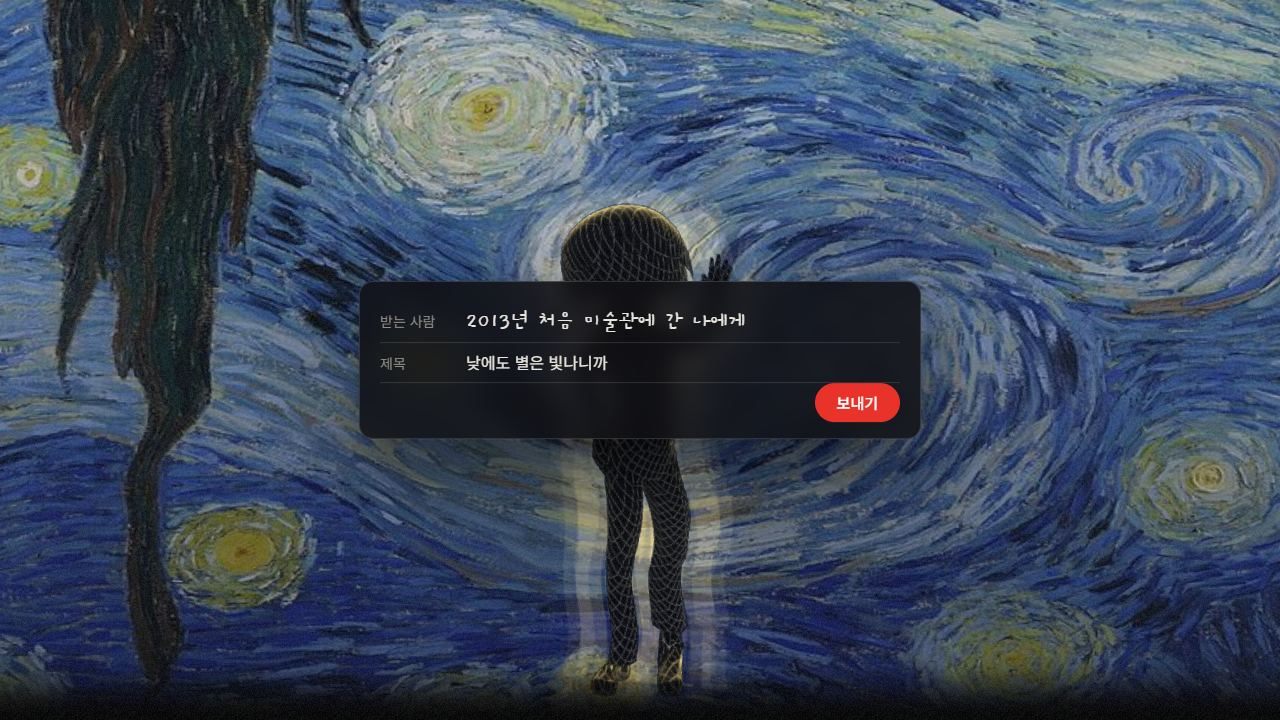
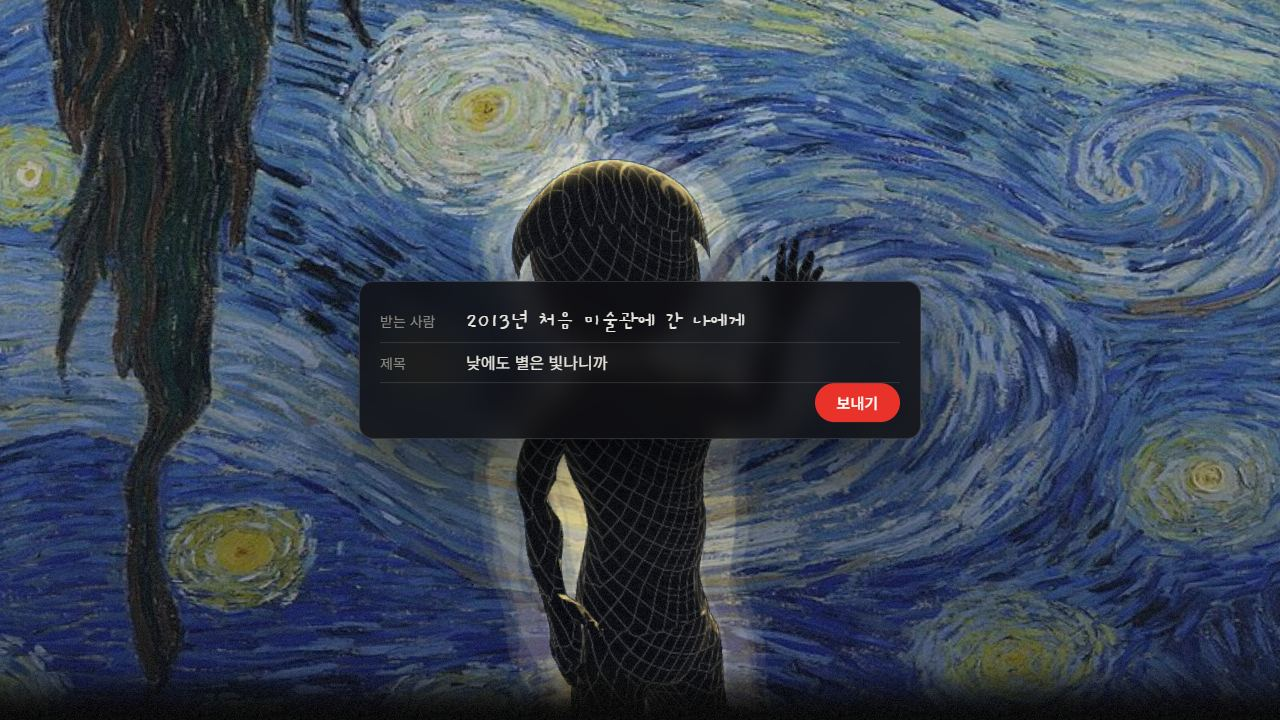
Water child: own head hidden (its tied-back hair read as a ponytail), round head with a bowl cut, upper body only; an ending after 보내기 in the picture version too
Claude-Session: https://claude.ai/code/session_019pff81V3KnfQ8avbBjw924

Changed region(s): [[0.375, 0.6111, 0.5938, 0.9778], [0.375, 0.1833, 0.6875, 0.3972]]

diff --git a/docs/index.html b/docs/index.html
@@ -131,6 +131,8 @@ noscript .text { position: fixed; inset: 0; overflow: auto; background: var(--vo
 #flat .count { position: absolute; left: 0; right: 0; bottom: calc(14px + env(safe-area-inset-bottom, 0px)); margin: 0; text-align: center; font: 400 12px/1 var(--f-ko); letter-spacing: .08em; color: var(--ash); }
 .nogl .read { z-index: 6; }
 .nogl canvas, .nogl .bar { display: none; }
+.fin .sent { margin: 0 0 18px; font: 400 13px/1.6 var(--f-ko); letter-spacing: .08em; color: var(--ash); }
+.nogl .card, .nogl .fin { z-index: 7; }
 </style>
 <script async src="https://cdn.jsdelivr.net/npm/es-module-shims@1.8.2/dist/es-module-shims.js"></script><!-- import maps for older Safari / in-app browsers -->
 <script>setTimeout(function () { var l = document.getElementById("loader"); if (document.documentElement.classList.contains("nogl")) return; if (l && l.isConnected && getComputedStyle(l).getPropertyValue("--p").trim() !== "1") { var p = document.createElement("p"); p.style.cssText = "position:fixed;left:0;right:0;bottom:12vh;text-align:center;font:300 15px/1.7 sans-serif;color:#bbb;padding:0 16px"; p.textContent = "이 브라우저에서 3D 장면을 불러오지 못했어요. 크롬에서 열거나, 휴대폰 카메라로 PDF의 QR을 찍어 주세요."; l.appendChild(p); } }, 20000);</script>
@@ -162,6 +164,7 @@ noscript .text { position: fixed; inset: 0; overflow: auto; background: var(--vo
 
 <section id="fin" class="fin" hidden>
   <div>
+    <p class="sent">편지를 보냈어요 · 보낸 편지함 1</p>
     <h1>낮에도 별은 빛나니까</h1>
     <div class="by">허대훈 · 신세계 지식향연 2026 「예술을 바꾼 혁명, 인상주의」</div>
     <div class="credit">빈센트 반 고흐, 「별이 빛나는 밤」, 1889, 뉴욕 현대미술관(MoMA) 소장. 이미지: Google Art Project, Wikimedia Commons(퍼블릭 도메인).</div>
@@ -225,6 +228,13 @@ var BEATS = [
 ];
 
 // src/js/content/letter.js
+var ENDING = {
+  to: "2013년 처음 미술관에 간 나에게",
+  subject: "낮에도 별은 빛나니까",
+  note: "",
+  send: "보내기",
+  footer: ""
+};
 var LETTER = {
   title: "",
   paragraphs: [
@@ -262,13 +272,27 @@ function start() {
   const img = flat.querySelector("img"), count = flat.querySelector(".count");
   const read = document.getElementById("read"), body = document.getElementById("readBody");
   const title = document.getElementById("readTitle"), sign = document.getElementById("readSign");
+  const card = document.getElementById("card"), fin = document.getElementById("fin"), send = document.getElementById("send");
   const pic = (n) => `assets/fallback/b${n}.jpg`;
   let k = 0;
   const reading = () => !!BEATS[k].read;
   function show(n) {
     k = Math.max(0, Math.min(BEATS.length - 1, n));
-    img.src = pic(k);
+    const end = !!BEATS[k].end;
+    img.src = pic(end ? k - 1 : k);
     img.alt = BEATS[k].label;
+    fin.hidden = true;
+    card.hidden = !end;
+    if (end) {
+      document.getElementById("to").textContent = ENDING.to;
+      document.getElementById("subj").textContent = ENDING.subject;
+      const note = document.getElementById("cardNote");
+      note.textContent = ENDING.note;
+      note.hidden = !ENDING.note;
+      document.getElementById("cardFooter").textContent = ENDING.footer;
+      send.textContent = ENDING.send;
+      send.disabled = false;
+    }
     count.textContent = `${String(k + 1).padStart(2, "0")} / ${String(BEATS.length).padStart(2, "0")} · ${BEATS[k].label}`;
     if (k + 1 < BEATS.length) new Image().src = pic(k + 1);
     flat.classList.toggle("started", k > 0);
@@ -289,6 +313,13 @@ function start() {
   flat.addEventListener("click", () => {
     if (!reading()) show(k + 1);
   });
+  send.addEventListener("click", () => {
+    card.hidden = true;
+    fin.hidden = false;
+    document.getElementById("again").focus({ preventScroll: true });
+  });
+  document.getElementById("again").addEventListener("click", () => show(0));
+  document.getElementById("replay").addEventListener("click", () => show(BEATS.findIndex((b) => b.world === "lake")));
   document.getElementById("readDone").addEventListener("click", (e) => {
     e.stopPropagation();
     show(k + 1);
@@ -1120,9 +1151,9 @@ var LOOK = {
     hair: false,
     // 머리카락이 없는 마네킹 모델이면 true: 머리뼈에 머리카락을 붙임
     kidHair: true,
-    // 물속 아이에게만 바가지 머리(이마까지 덮는 둥근 머리)를 씌움
-    kidHairFit: { size: 0.64, lift: 0.45 },
-    // 바가지 머리 크기·높이 (머리뼈~정수리 거리에 대한 비율, ?hairdebug 로 빨갛게 확인)
+    // 물속 아이: 모델의 머리(묶은 머리)를 숨기고 둥근 머리 + 바가지 머리를 씌움
+    kidHairFit: { size: 0.5, lift: 0.5 },
+    // 둥근 머리 반지름·높이 (머리뼈~정수리 거리에 대한 비율). 바가지 머리는 그보다 1.1배
     childArmScale: 0.78,
     // 아이 팔 길이·굵기 (1 = 모델 그대로, 작을수록 짧고 가늘게)
     hairFit: { size: 0.66, lift: 0.62 },
@@ -1134,7 +1165,7 @@ var LOOK = {
     childHeadScale: 1.4,
     // 아이 머리를 몸에 비해 크게
     // 물속 인물 화면: 머리에서 drop(m) 아래를 가운데로, 위아래 half(m) 만큼, tilt(라디안) 위에서 내려다봄
-    waterFrame: { adult: { drop: 0.13, half: 0.36, tilt: 0.35 }, child: { drop: 0.12, half: 0.8, tilt: 0.2 } }
+    waterFrame: { adult: { drop: 0.13, half: 0.36, tilt: 0.35 }, child: { drop: 0.02, half: 0.4, tilt: 0.2 } }
   },
   // 물에 비친 아이
   childGlow: 0.85,
@@ -4919,7 +4950,8 @@ function makePerson({ height, mat, headScale = 1, kid = false }) {
   body.position.y = -box2.min.y * s;
   const bones = findBones(body);
   root.updateMatrixWorld(true);
-  if ((LOOK.people.hair || kid && LOOK.people.kidHair) && bones.head) addHair(bones.head, mat, kid || headScale !== 1, height, kid ? LOOK.people.kidHairFit : LOOK.people.hairFit);
+  if (kid && LOOK.people.kidHair && bones.head) addKidHead(body, bones.head, mat, height);
+  else if (LOOK.people.hair && bones.head) addHair(bones.head, mat, headScale !== 1, height);
   if (headScale !== 1 && bones.head) bones.head.scale.setScalar(headScale);
   const arm = kid ? LOOK.people.childArmScale ?? 1 : 1;
   if (arm !== 1) {
@@ -4929,6 +4961,25 @@ function makePerson({ height, mat, headScale = 1, kid = false }) {
   const y = (b) => b ? b.getWorldPosition(new THREE8.Vector3()).y : 0;
   const tpose = Math.abs(y(bones.handL) - y(bones.upperArmL)) < 0.1 * (height / 1.7);
   return { root, body, bones, base: snapshot(bones), clips: src.animations, tpose, idlePose };
+}
+function addKidHead(body, head, mat, crownY) {
+  body.traverse((o) => {
+    if (o.isMesh && /head/i.test(o.name)) o.visible = false;
+  });
+  head.updateMatrixWorld(true);
+  const h = crownY - head.getWorldPosition(new THREE8.Vector3()).y;
+  const ws = head.getWorldScale(new THREE8.Vector3()).x;
+  const { size: size2, lift } = LOOK.people.kidHairFit;
+  const r = h * size2 / ws;
+  const g2 = new THREE8.Group();
+  g2.position.set(0, h * lift / ws, 0);
+  head.add(g2);
+  const skull = new THREE8.Mesh(new THREE8.SphereGeometry(r, 28, 20), mat);
+  skull.scale.set(0.92, 1, 0.98);
+  g2.add(skull);
+  const bowl = new THREE8.Mesh(new THREE8.SphereGeometry(r * 1.1, 32, 18, 0, Math.PI * 2, 0, Math.PI * 0.56), mat);
+  bowl.position.set(0, r * 0.08, -r * 0.03);
+  g2.add(bowl);
 }
 function addHair(head, mat, child2, crownY, fit = LOOK.people.hairFit) {
   head.updateMatrixWorld(true);

diff --git a/src/js/fallback.js b/src/js/fallback.js
@@ -2,7 +2,7 @@
 // Tap or → goes on, ← goes back; the lakeside beat still opens the whole letter to scroll through.
 // Pictures: assets/fallback/b<beat>.jpg (shot with ?shot, the lake one with ?shot&noread). ?flat forces this mode.
 import { BEATS } from "./content/beats.js";
-import { LETTER } from "./content/letter.js";
+import { LETTER, ENDING } from "./content/letter.js";
 
 function hasGL() {
   try { const c = document.createElement("canvas"); return !!(c.getContext("webgl2") || c.getContext("webgl")); } catch { return false; }
@@ -20,13 +20,22 @@ function start() {
   const img = flat.querySelector("img"), count = flat.querySelector(".count");
   const read = document.getElementById("read"), body = document.getElementById("readBody");
   const title = document.getElementById("readTitle"), sign = document.getElementById("readSign");
+  const card = document.getElementById("card"), fin = document.getElementById("fin"), send = document.getElementById("send");
   const pic = (n) => `assets/fallback/b${n}.jpg`;
   let k = 0;
   const reading = () => !!BEATS[k].read;
 
   function show(n) {
     k = Math.max(0, Math.min(BEATS.length - 1, n));
-    img.src = pic(k); img.alt = BEATS[k].label;
+    const end = !!BEATS[k].end; // the last beat: the real card over the picture before it, and 보내기 leads to the ending
+    img.src = pic(end ? k - 1 : k); img.alt = BEATS[k].label;
+    fin.hidden = true; card.hidden = !end;
+    if (end) {
+      document.getElementById("to").textContent = ENDING.to; document.getElementById("subj").textContent = ENDING.subject;
+      const note = document.getElementById("cardNote"); note.textContent = ENDING.note; note.hidden = !ENDING.note;
+      document.getElementById("cardFooter").textContent = ENDING.footer;
+      send.textContent = ENDING.send; send.disabled = false;
+    }
     count.textContent = `${String(k + 1).padStart(2, "0")} / ${String(BEATS.length).padStart(2, "0")} · ${BEATS[k].label}`;
     if (k + 1 < BEATS.length) new Image().src = pic(k + 1);
     flat.classList.toggle("started", k > 0);
@@ -40,6 +49,9 @@ function start() {
   }
 
   flat.addEventListener("click", () => { if (!reading()) show(k + 1); });
+  send.addEventListener("click", () => { card.hidden = true; fin.hidden = false; document.getElementById("again").focus({ preventScroll: true }); });
+  document.getElementById("again").addEventListener("click", () => show(0));
+  document.getElementById("replay").addEventListener("click", () => show(BEATS.findIndex((b) => b.world === "lake")));
   document.getElementById("readDone").addEventListener("click", (e) => { e.stopPropagation(); show(k + 1); });
   read.addEventListener("scroll", () => read.classList.toggle("scrolled", read.scrollTop > 8), { passive: true });
   addEventListener("keydown", (e) => {

diff --git a/src/js/world/people.js b/src/js/world/people.js
@@ -60,7 +60,8 @@ export function makePerson({ height, mat, headScale = 1, kid = false }) {
   const bones = findBones(body);
   root.updateMatrixWorld(true);
   // the crown is the model's top (height): its distance from the head bone sizes the hair when there is no head-top bone
-  if ((LOOK.people.hair || (kid && LOOK.people.kidHair)) && bones.head) addHair(bones.head, mat, kid || headScale !== 1, height, kid ? LOOK.people.kidHairFit : LOOK.people.hairFit);
+  if (kid && LOOK.people.kidHair && bones.head) addKidHead(body, bones.head, mat, height);
+  else if (LOOK.people.hair && bones.head) addHair(bones.head, mat, headScale !== 1, height);
   if (headScale !== 1 && bones.head) bones.head.scale.setScalar(headScale);
   // a child's arms are shorter and thinner: scaling the upper arm shrinks the whole arm, hand included
   const arm = kid ? LOOK.people.childArmScale ?? 1 : 1;
@@ -70,6 +71,26 @@ export function makePerson({ height, mat, headScale = 1, kid = false }) {
   const y = (b) => (b ? b.getWorldPosition(new THREE.Vector3()).y : 0);
   const tpose = Math.abs(y(bones.handL) - y(bones.upperArmL)) < 0.1 * (height / 1.7);
   return { root, body, bones, base: snapshot(bones), clips: src.animations, tpose, idlePose };
+}
+
+// The child model's own head carries hair tied back (it read as a ponytail in the water), so it is hidden and a
+// round head with a bowl cut, level all round just above the brows, sits on the head bone instead.
+function addKidHead(body, head, mat, crownY) {
+  body.traverse((o) => { if (o.isMesh && /head/i.test(o.name)) o.visible = false; });
+  head.updateMatrixWorld(true);
+  const h = crownY - head.getWorldPosition(new THREE.Vector3()).y; // head bone (top of the neck) to the crown
+  const ws = head.getWorldScale(new THREE.Vector3()).x;
+  const { size, lift } = LOOK.people.kidHairFit;
+  const r = (h * size) / ws;
+  const g = new THREE.Group();
+  g.position.set(0, (h * lift) / ws, 0);
+  head.add(g);
+  const skull = new THREE.Mesh(new THREE.SphereGeometry(r, 28, 20), mat);
+  skull.scale.set(0.92, 1, 0.98);
+  g.add(skull);
+  const bowl = new THREE.Mesh(new THREE.SphereGeometry(r * 1.1, 32, 18, 0, Math.PI * 2, 0, Math.PI * 0.56), mat);
+  bowl.position.set(0, r * 0.08, -r * 0.03);
+  g.add(bowl);
 }
 
 // A bald mannequin reads as a doll; a cap of hair on the head bone reads as a person.

diff --git a/src/js/content/look.js b/src/js/content/look.js
@@ -34,15 +34,15 @@ export const LOOK = {
     // out·lift = 클립보다 손을 옆으로·위로 더 뻗는 거리(m)
     wave: { clip: "[|]Wave$|^Wave$", up: 0.67, loop: 0.41, still: 0.83, speed: 0.75, out: 0.1, lift: 0.05 },
     hair: false, // 머리카락이 없는 마네킹 모델이면 true: 머리뼈에 머리카락을 붙임
-    kidHair: true, // 물속 아이에게만 바가지 머리(이마까지 덮는 둥근 머리)를 씌움
-    kidHairFit: { size: 0.64, lift: 0.45 }, // 바가지 머리 크기·높이 (머리뼈~정수리 거리에 대한 비율, ?hairdebug 로 빨갛게 확인)
+    kidHair: true, // 물속 아이: 모델의 머리(묶은 머리)를 숨기고 둥근 머리 + 바가지 머리를 씌움
+    kidHairFit: { size: 0.5, lift: 0.5 }, // 둥근 머리 반지름·높이 (머리뼈~정수리 거리에 대한 비율). 바가지 머리는 그보다 1.1배
     childArmScale: 0.78, // 아이 팔 길이·굵기 (1 = 모델 그대로, 작을수록 짧고 가늘게)
     hairFit: { size: 0.66, lift: 0.62 }, // 머리 크기에 대한 머리카락 반지름·높이 비율 (주소에 ?hairdebug 를 붙이면 빨갛게 보임)
     adultHeight: 1.72, // 어른 키(m)
     childHeight: 1.0, // 아이 키(m)
     childHeadScale: 1.4, // 아이 머리를 몸에 비해 크게
     // 물속 인물 화면: 머리에서 drop(m) 아래를 가운데로, 위아래 half(m) 만큼, tilt(라디안) 위에서 내려다봄
-    waterFrame: { adult: { drop: 0.13, half: 0.36, tilt: 0.35 }, child: { drop: 0.12, half: 0.8, tilt: 0.2 } },
+    waterFrame: { adult: { drop: 0.13, half: 0.36, tilt: 0.35 }, child: { drop: 0.02, half: 0.4, tilt: 0.2 } },
   },
 
   // 물에 비친 아이

diff --git a/src/style.css b/src/style.css
@@ -114,3 +114,5 @@ noscript .text { position: fixed; inset: 0; overflow: auto; background: var(--vo
 #flat .count { position: absolute; left: 0; right: 0; bottom: calc(14px + env(safe-area-inset-bottom, 0px)); margin: 0; text-align: center; font: 400 12px/1 var(--f-ko); letter-spacing: .08em; color: var(--ash); }
 .nogl .read { z-index: 6; }
 .nogl canvas, .nogl .bar { display: none; }
+.fin .sent { margin: 0 0 18px; font: 400 13px/1.6 var(--f-ko); letter-spacing: .08em; color: var(--ash); }
+.nogl .card, .nogl .fin { z-index: 7; }

diff --git a/src/index.html b/src/index.html
@@ -45,6 +45,7 @@
 
 <section id="fin" class="fin" hidden>
   <div>
+    <p class="sent">편지를 보냈어요 · 보낸 편지함 1</p>
     <h1>낮에도 별은 빛나니까</h1>
     <div class="by">허대훈 · 신세계 지식향연 2026 「예술을 바꾼 혁명, 인상주의」</div>
     <div class="credit">빈센트 반 고흐, 「별이 빛나는 밤」, 1889, 뉴욕 현대미술관(MoMA) 소장. 이미지: Google Art Project, Wikimedia Commons(퍼블릭 도메인).</div>
